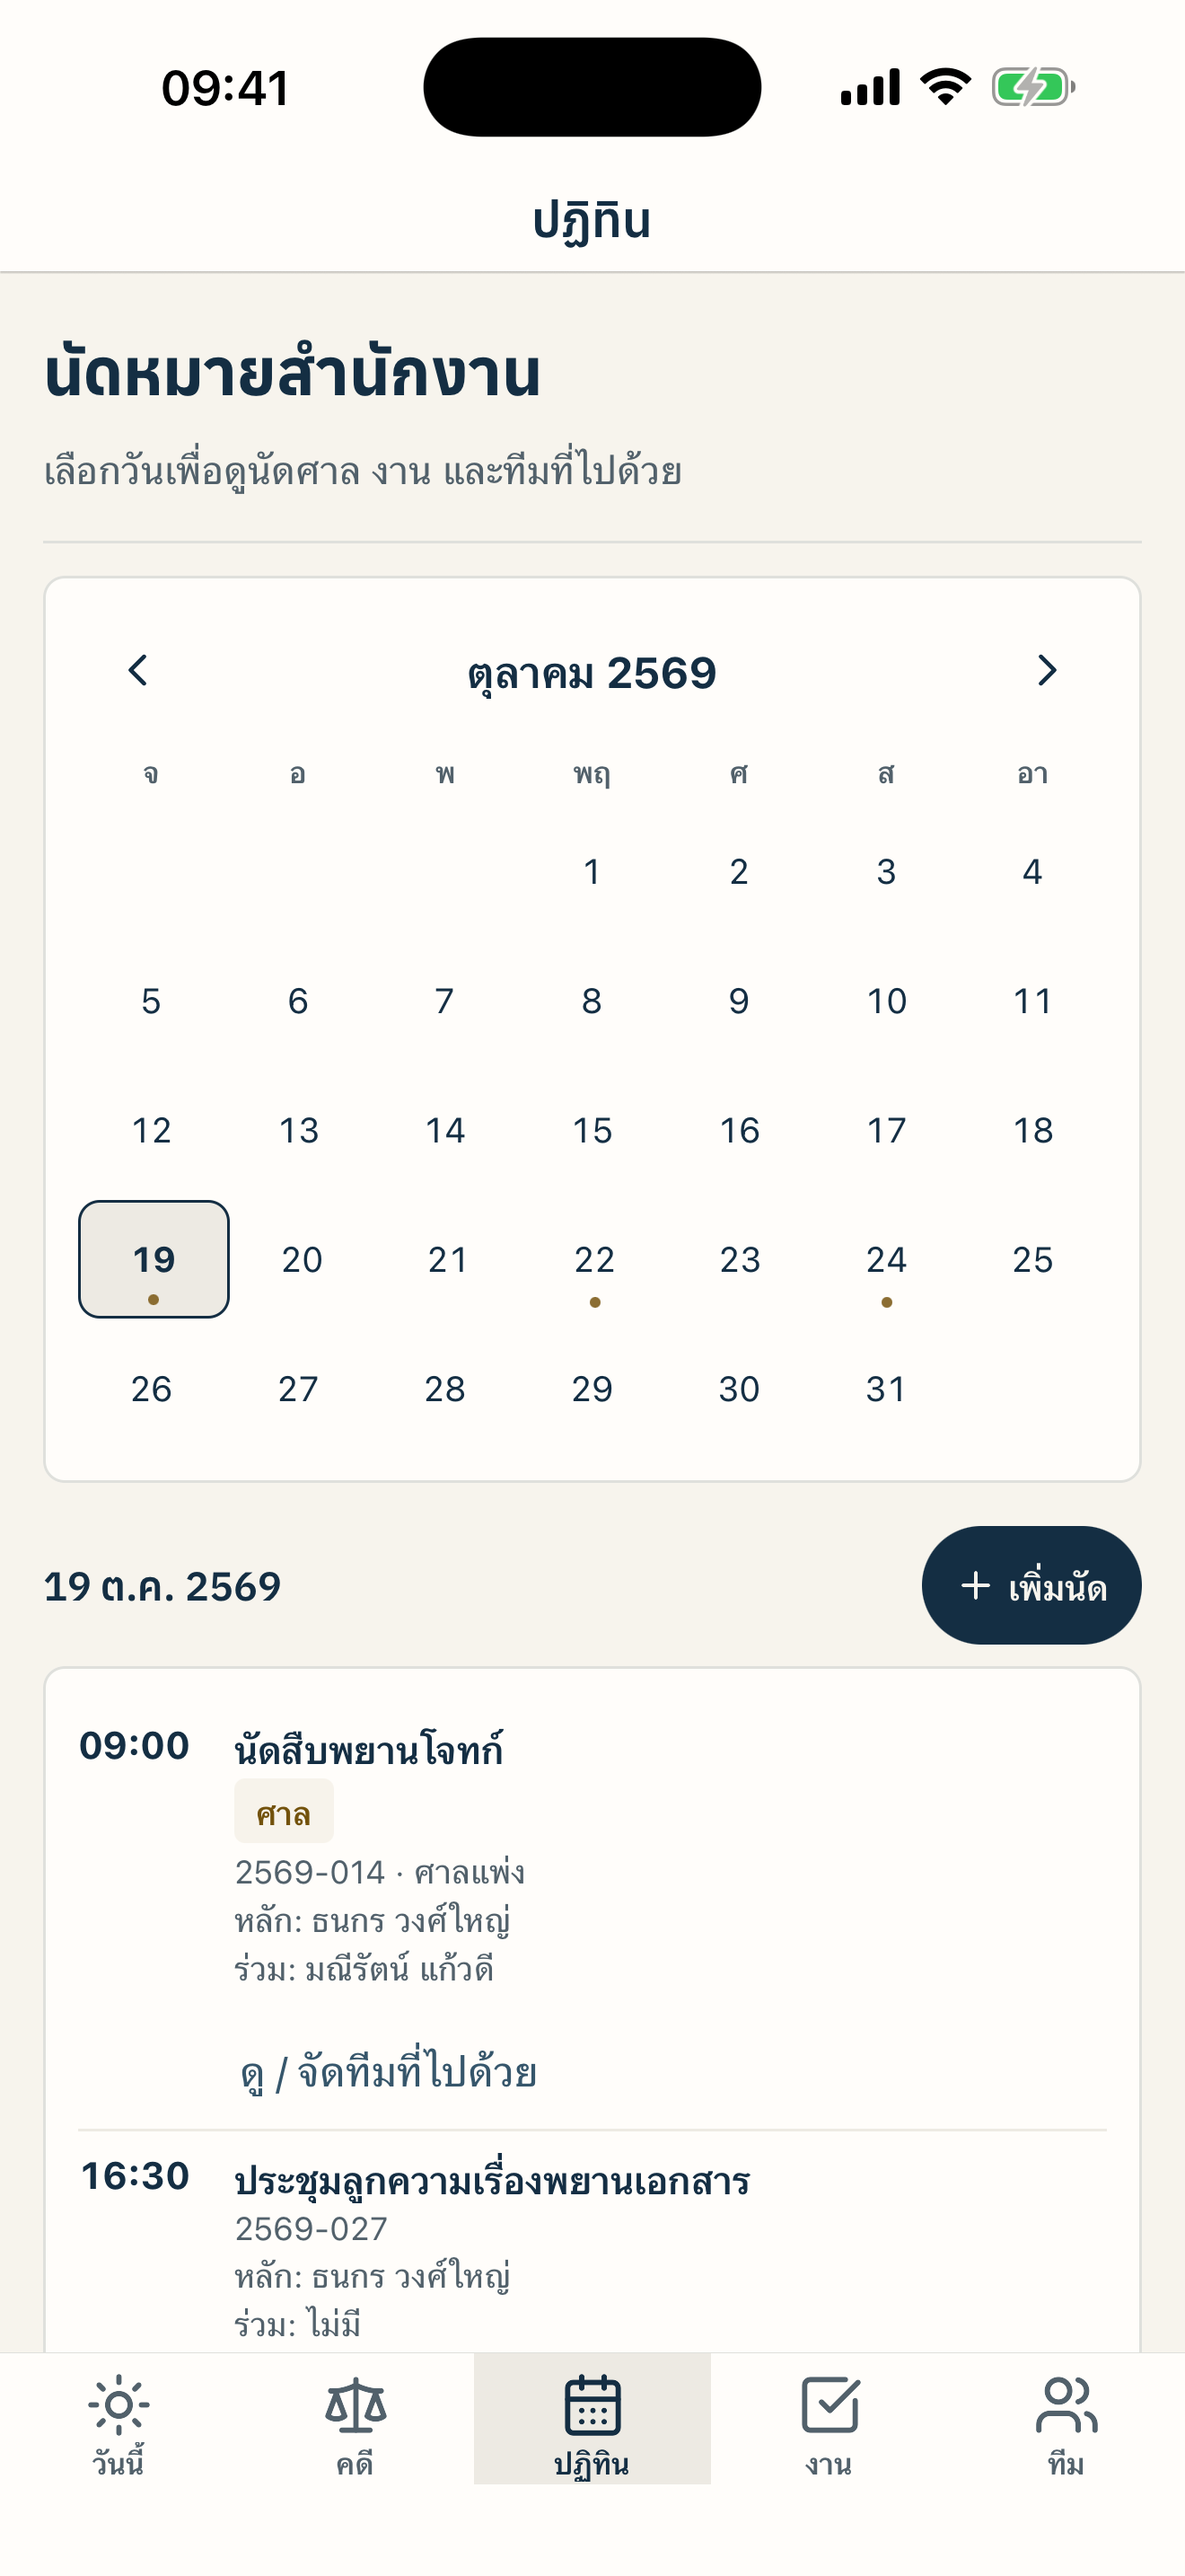
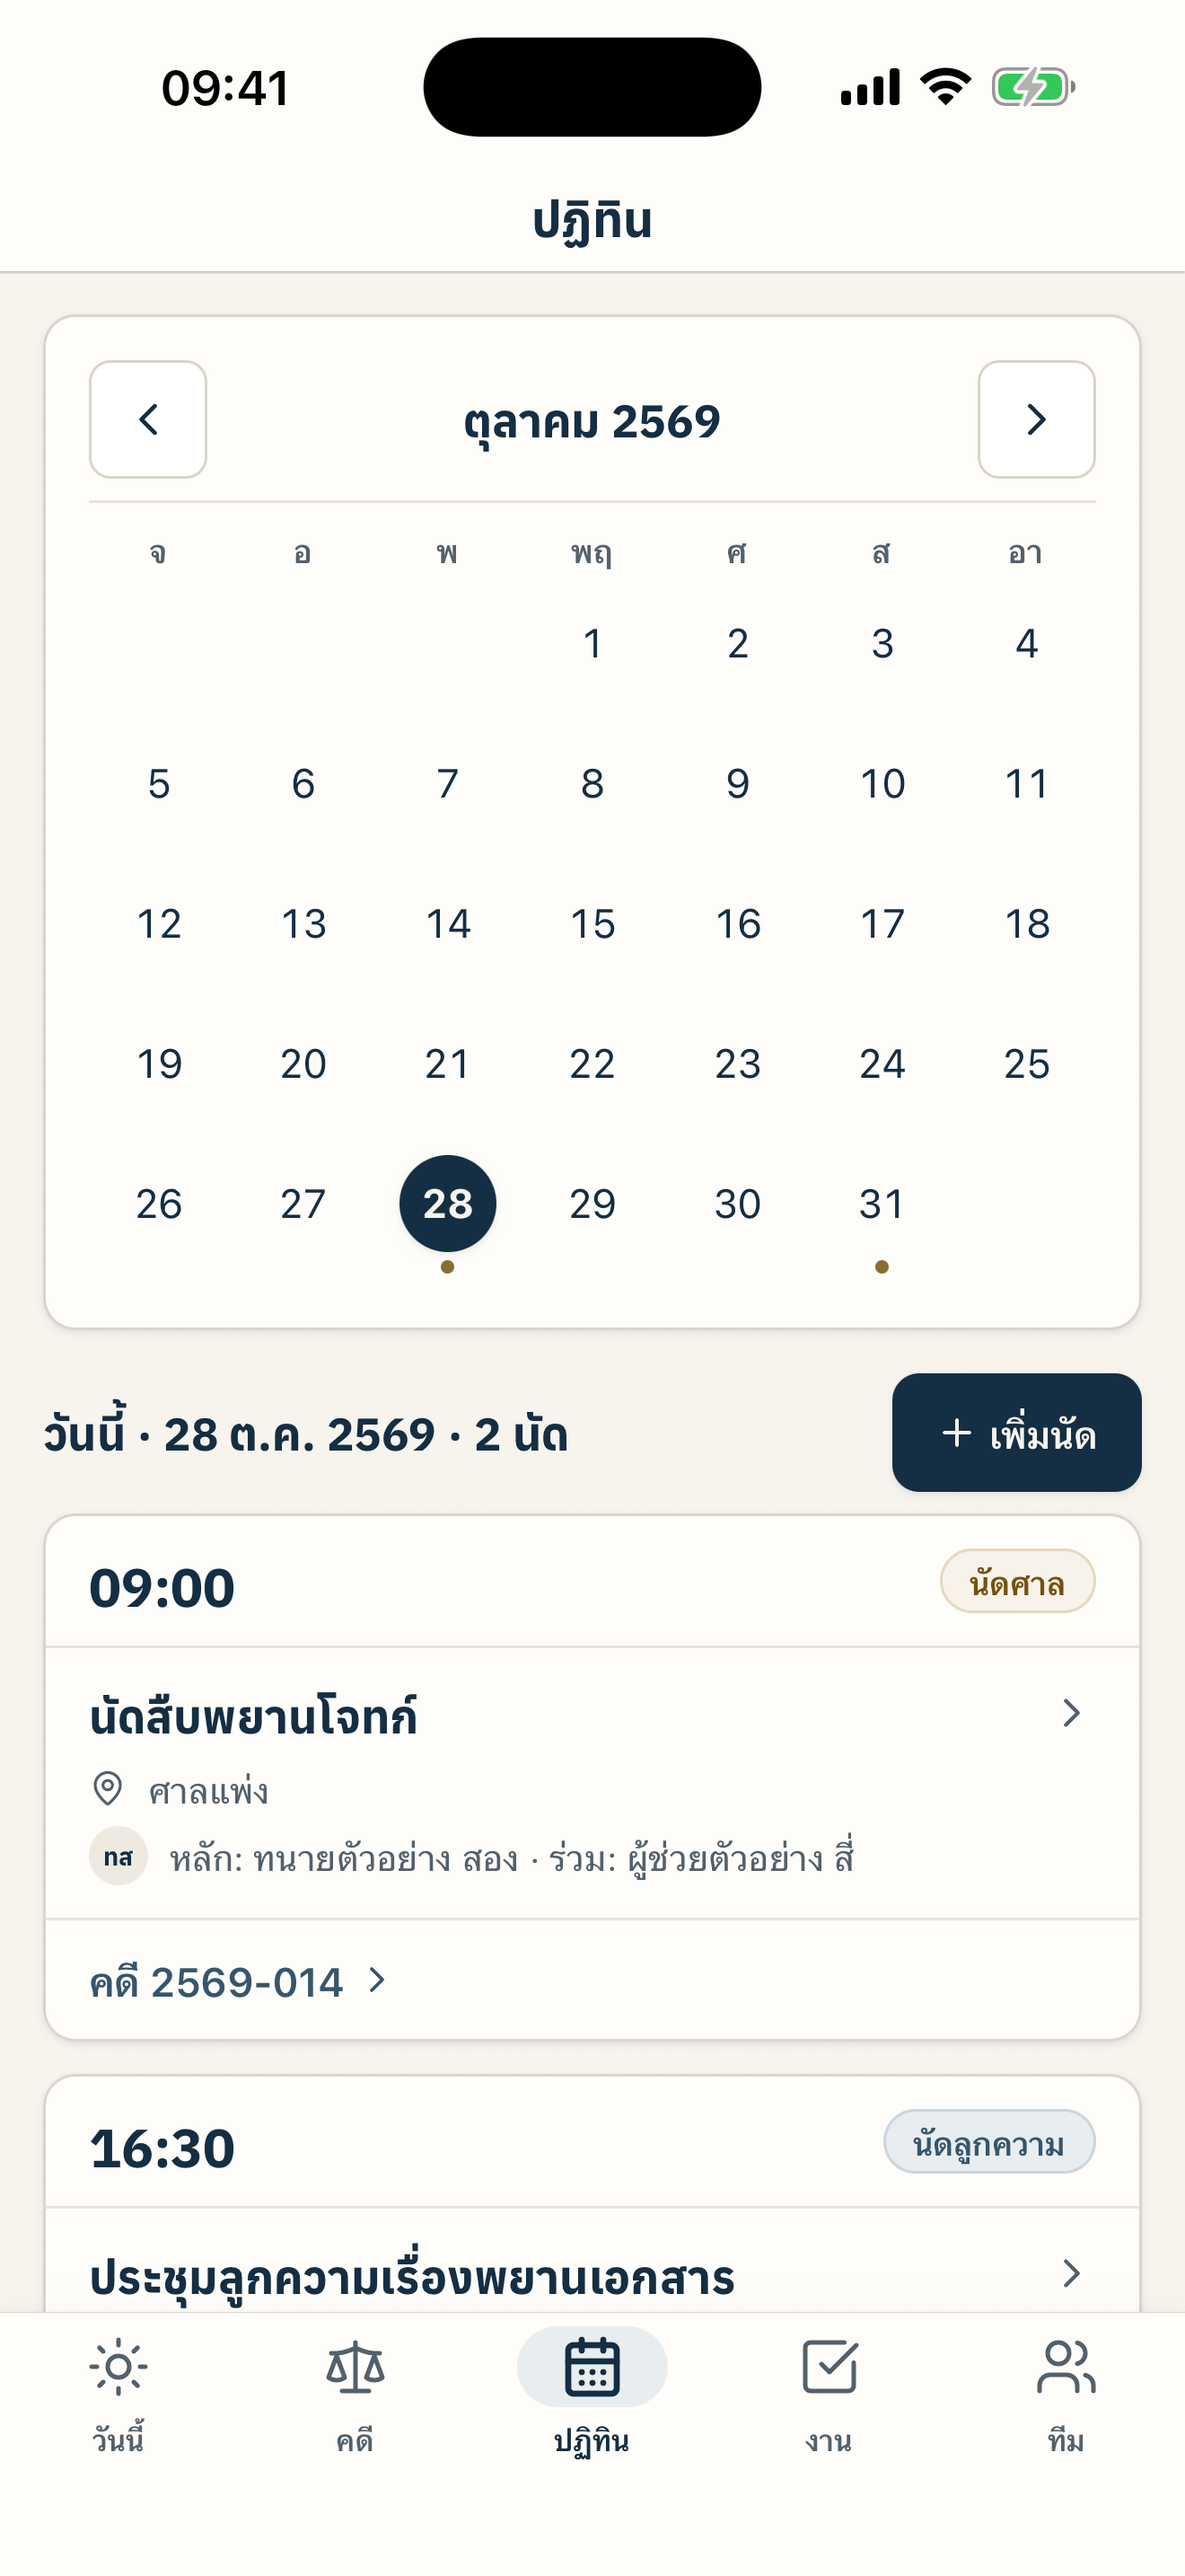
docs(mobile): App Store screenshots with clearly fictional names
Retaken from the Release app on iPhone 17 Pro Max against the local
samnuan_store_shots DB, with people and clients renamed to obvious
sample names. For the next version; 0.1.1's screenshots are locked.

diff --git a/docs/release/app-store-ios-2026-10-19.md b/docs/release/app-store-ios-2026-10-19.md
@@ -66,6 +66,8 @@ Samnuan ใช้บัญชีเดียวกับเว็บ samnuan.com
 
 ต้นฉบับ 1320×2868 (`apps/mobile/store/ios/*.png`) จาก simulator iPhone 17 Pro Max รันแอปจริง (Release) กับ API ในเครื่อง DB `samnuan_store_shots` ข้อมูลเป็นสำนักงานสมมติทั้งหมด ช่องที่ App Store Connect รับคือ "iPhone ที่มี Dynamic Island" (1206×2622) จึงอัปโหลดชุดย่อใน `store/ios/6.3/`
 
+2026-10-28: ถ่ายชุดใหม่ให้ชื่อคนและลูกความเป็นชื่อสมมติชัดเจน (ทนายตัวอย่าง หนึ่ง–สาม, ผู้ช่วยตัวอย่าง สี่, บริษัท ตัวอย่างขนส่ง/ตัวอย่างอาหาร จำกัด, นายสมมุติ ตัวอย่าง) ล็อกอินเป็น `shots-lawyer@example.test` ข้อมูลเลื่อนวันให้ "วันนี้" ตรงกับวันที่ถ่าย ใช้กับเวอร์ชันถัดไป (ภาพของ 0.1.1 ที่ขึ้นร้านแล้วแก้ไม่ได้)
+
 ## สถานะ
 
 - 2026-10-19: ส่งตรวจเวอร์ชัน 0.1.1 (build 3) แล้ว ขายเฉพาะประเทศไทย ฟรี อายุ 4+ ปล่อยอัตโนมัติหลังผ่าน
